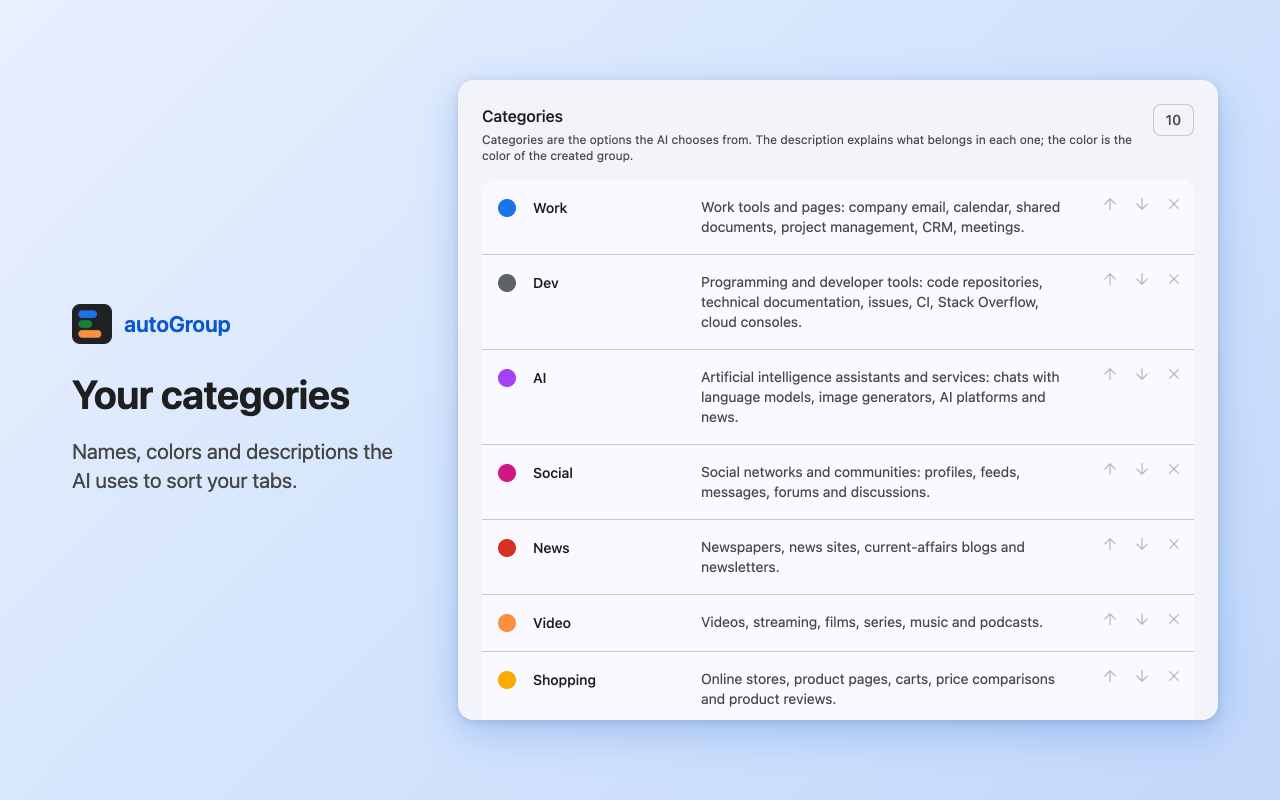
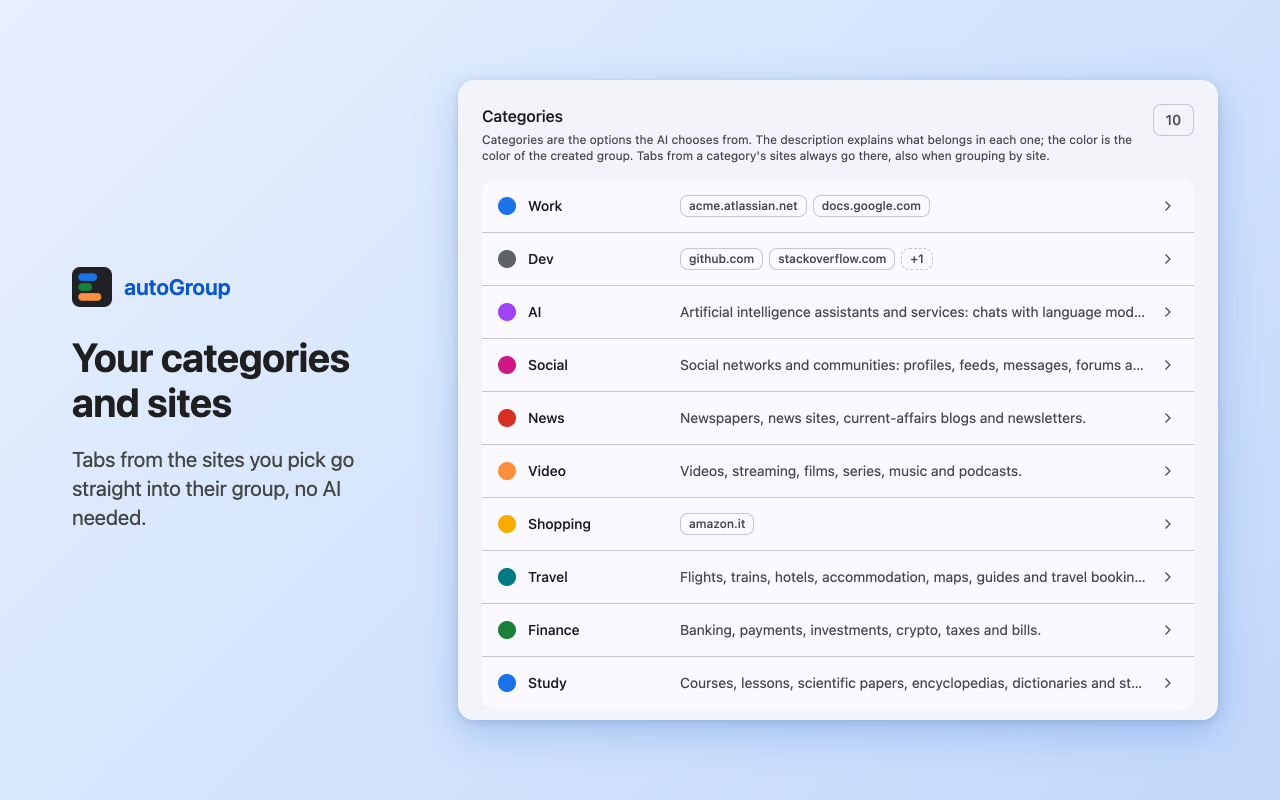
docs: refresh store screenshots and listing for v1.2.0
Screenshots show the new settings pages and the panel changes; the last one shows categories with their sites. The listing mentions category sites and automatic grouping.

diff --git a/docs/store/listing.md b/docs/store/listing.md
@@ -30,6 +30,7 @@ Nessuna tab si muove senza la tua conferma, tranne quelle dei siti che metti tu 
 DUE MODALITÀ
 • Per sito: le tab dello stesso sito nello stesso gruppo. Immediato, nessuna configurazione, nessun dato esce dal computer.
 • Con l'AI: le tab divise per argomento, tra le tue categorie o in gruppi nuovi proposti dall'AI. I gruppi già aperti vengono estesi con le tab che c'entrano.
+• In entrambe: metti un sito in una categoria e le sue tab ci finiscono sempre, anche da sole mentre navighi (si può spegnere).
 
 L'AI LA SCEGLI TU
 • Il modello integrato in Chrome, se il tuo computer lo supporta: gratis, senza chiavi, nessun dato esce dal computer.
@@ -67,6 +68,7 @@ No tab moves without your confirmation, except tabs from sites you add to a cate
 TWO MODES
 • By site: tabs from the same site go in the same group. Instant, no setup, no data leaves your computer.
 • With AI: tabs sorted by topic, into your categories or new groups suggested by the AI. Groups you already have open are extended with the tabs that belong there.
+• In both: add a site to a category and its tabs always go there, even on their own while you browse (you can turn this off).
 
 YOU CHOOSE THE AI
 • The model built into Chrome, if your computer supports it: free, no keys, no data leaves your computer.
